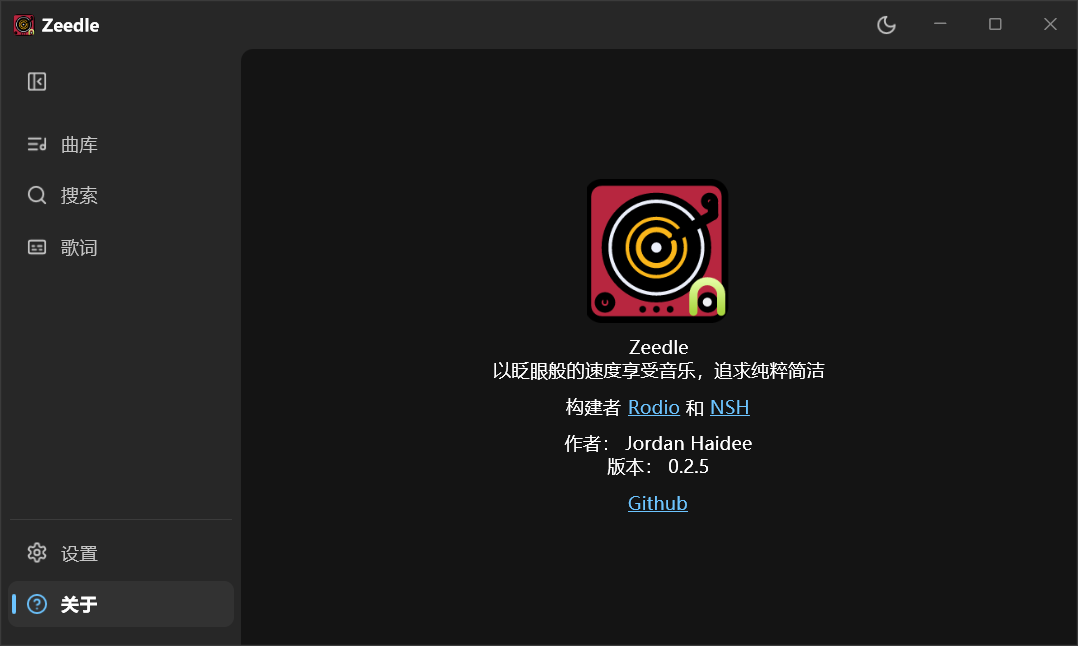
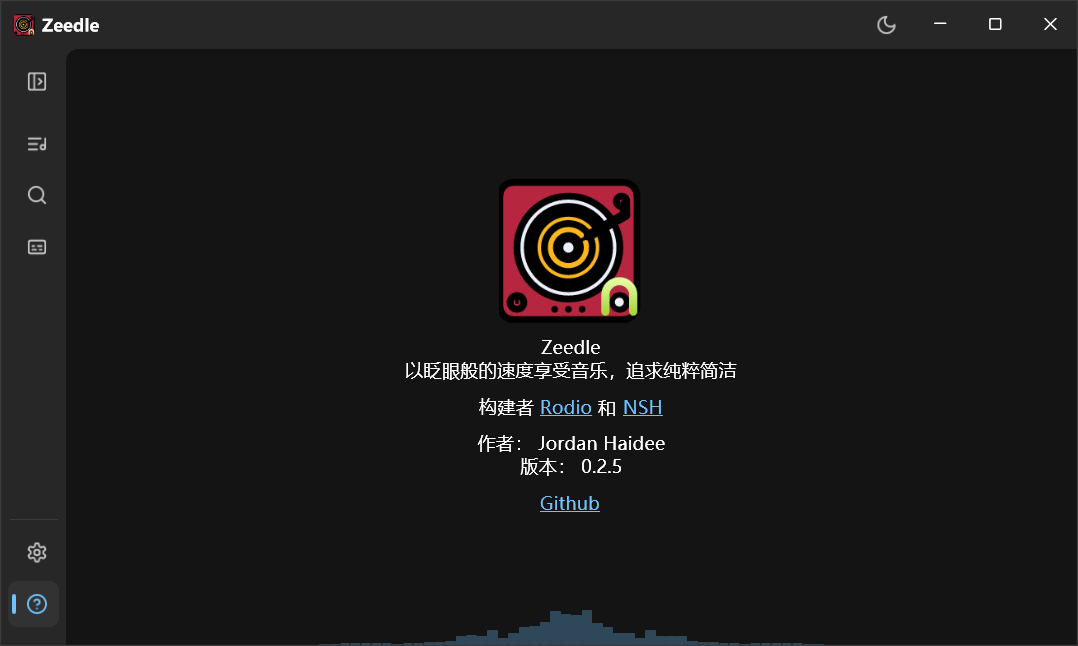
docs(readme): show active playback in locale screenshots

diff --git a/README.md b/README.md
@@ -169,7 +169,7 @@ The original Zeedle project is maintained at [Jordan-Haidee/zeedle](https://gith
 
 ## Screenshots
 
-The following full-window captures show the Windows app in English with the dark theme enabled. The library capture shows Shuffle selected. Search, lyrics and metadata editing are shown with “Love Story” by Taylor Swift.
+The following full-window captures show the Windows app in English with the dark theme and spectrum display enabled and the sidebar collapsed. Playback-related screens show “Love Story” by Taylor Swift playing with its progress visible.
 
 ### Music library
 

diff --git a/README.zh-CN.md b/README.zh-CN.md
@@ -169,7 +169,7 @@ powershell -File scripts/check-windows-startup.ps1
 
 ## 界面截图
 
-以下截图使用 Windows 暗色主题和中文界面。曲库、搜索、歌词与元数据编辑页面展示的是 Taylor Swift 的《Love Story》。
+以下截图使用 Windows 暗色主题，开启频谱显示并收起侧栏。播放相关页面展示“此生不换”正在播放及其进度。
 
 ### 音乐曲库
 
